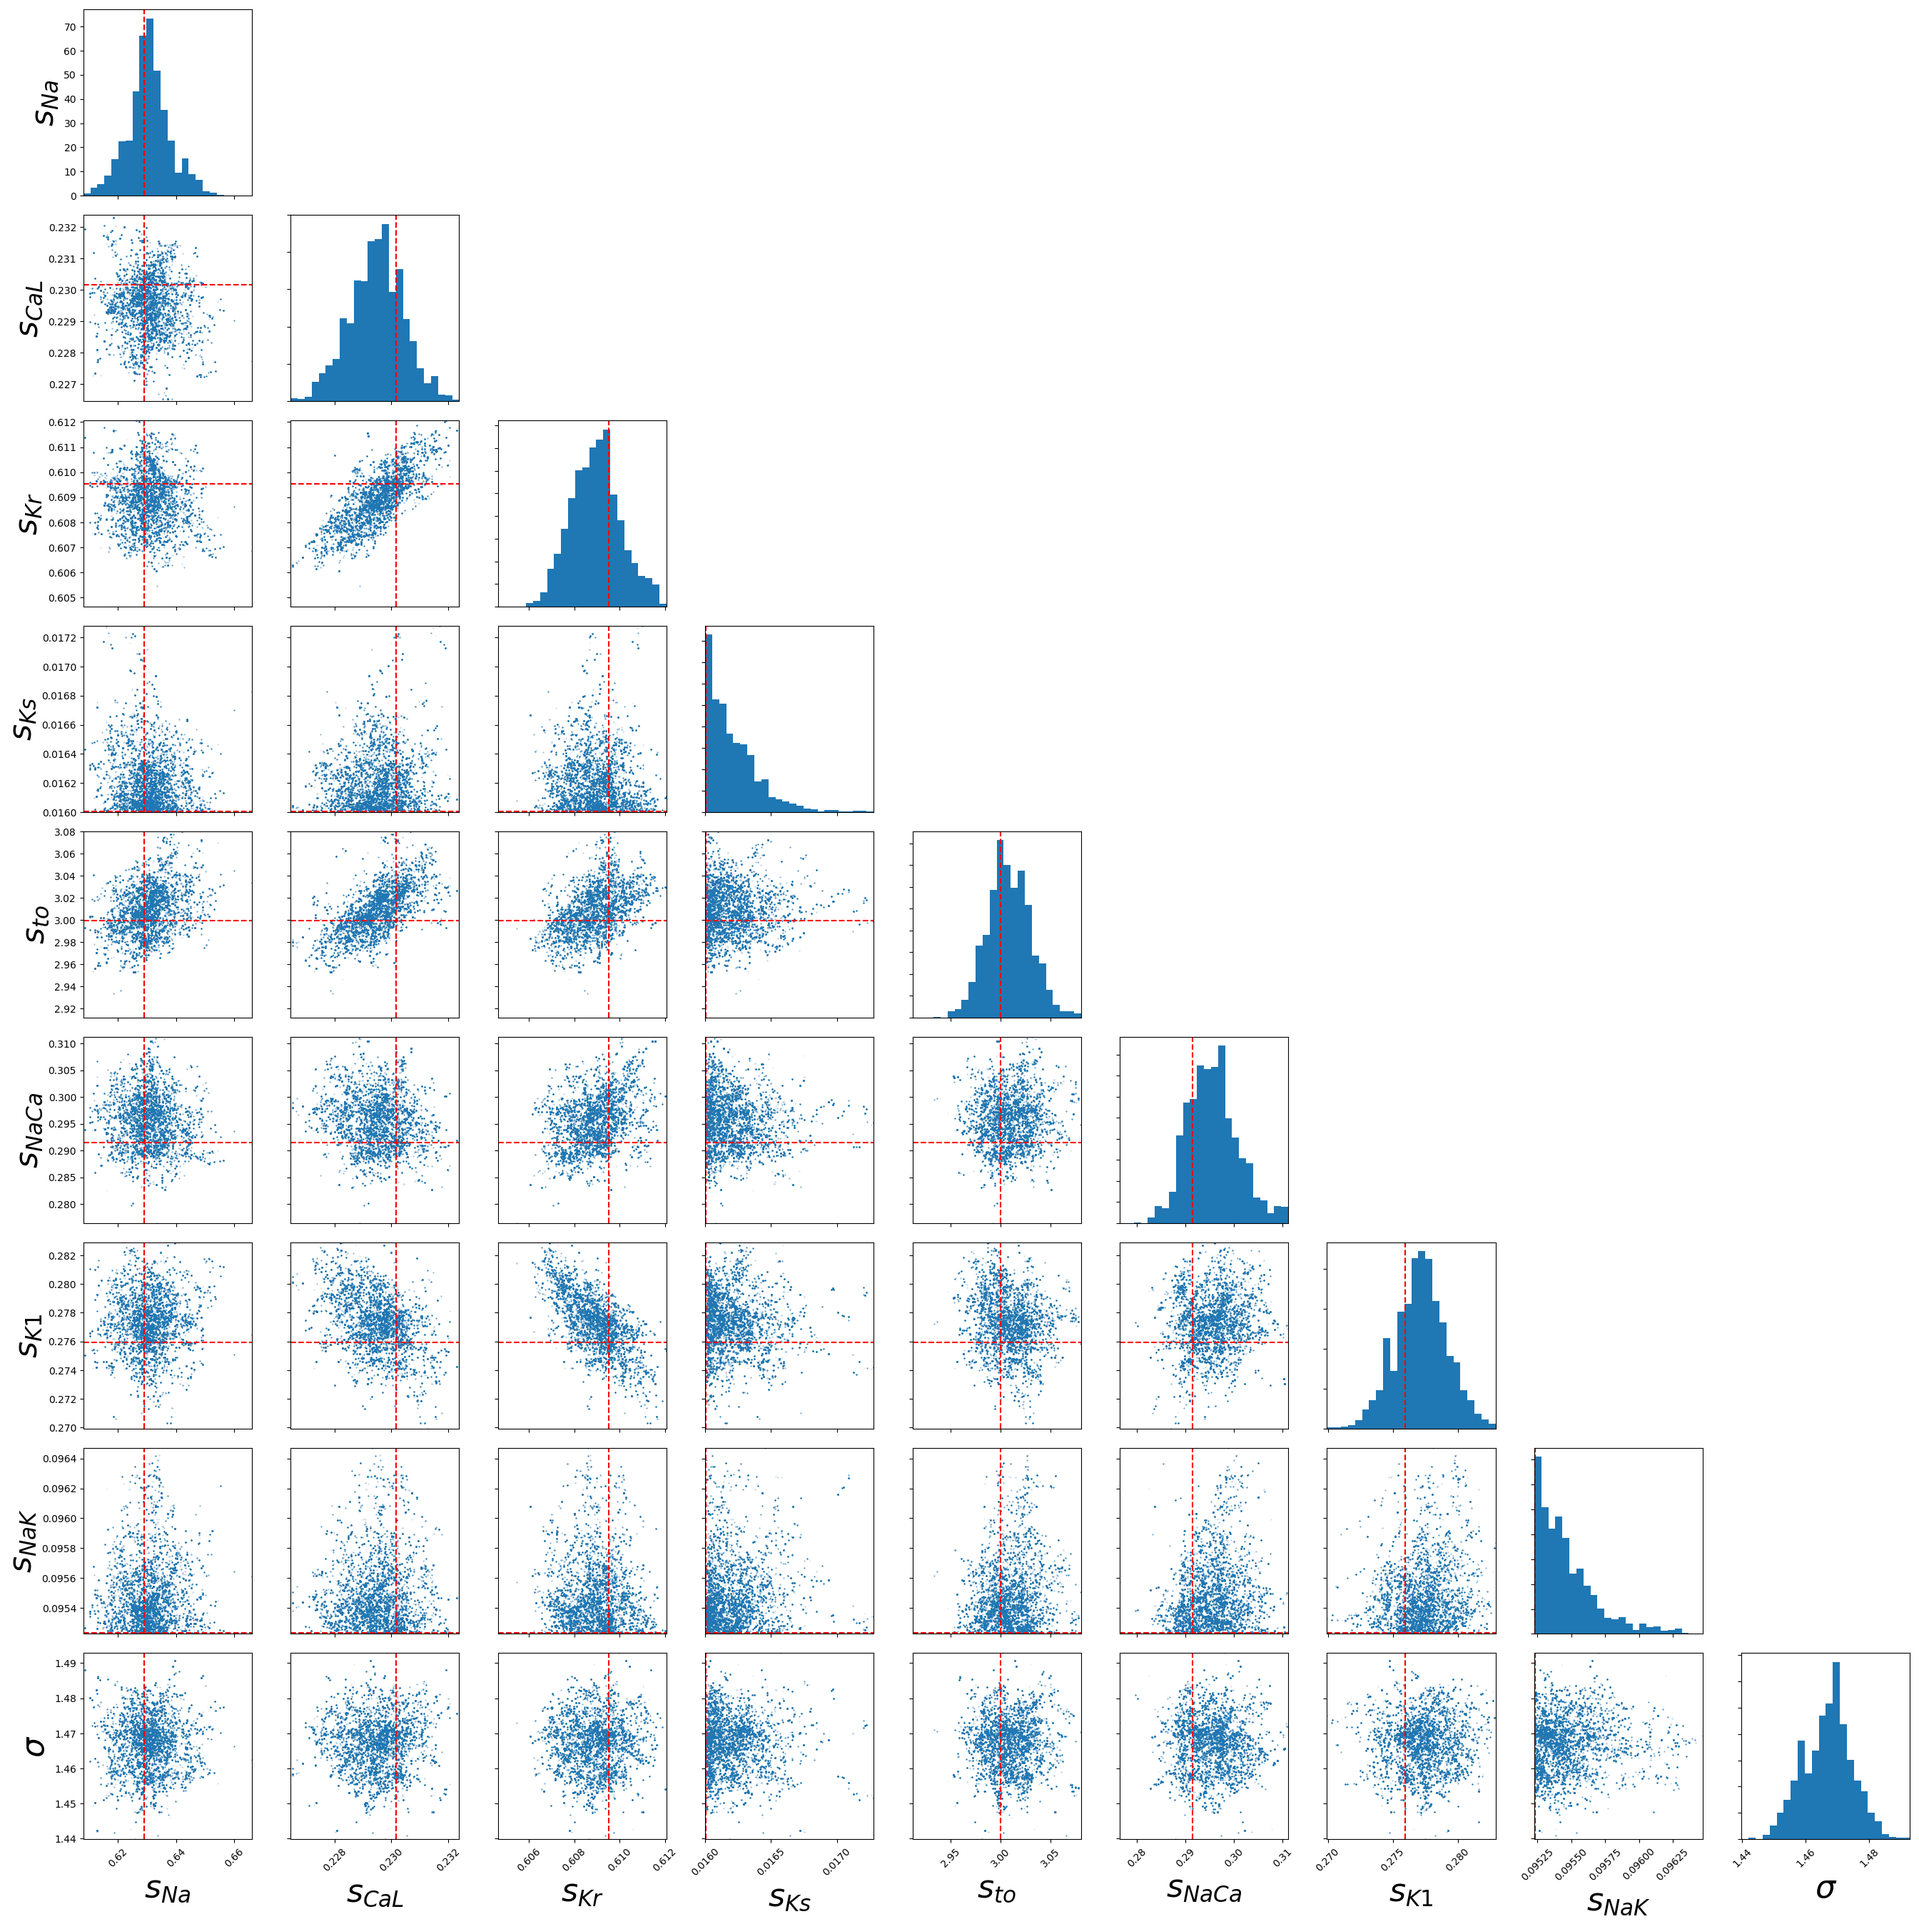
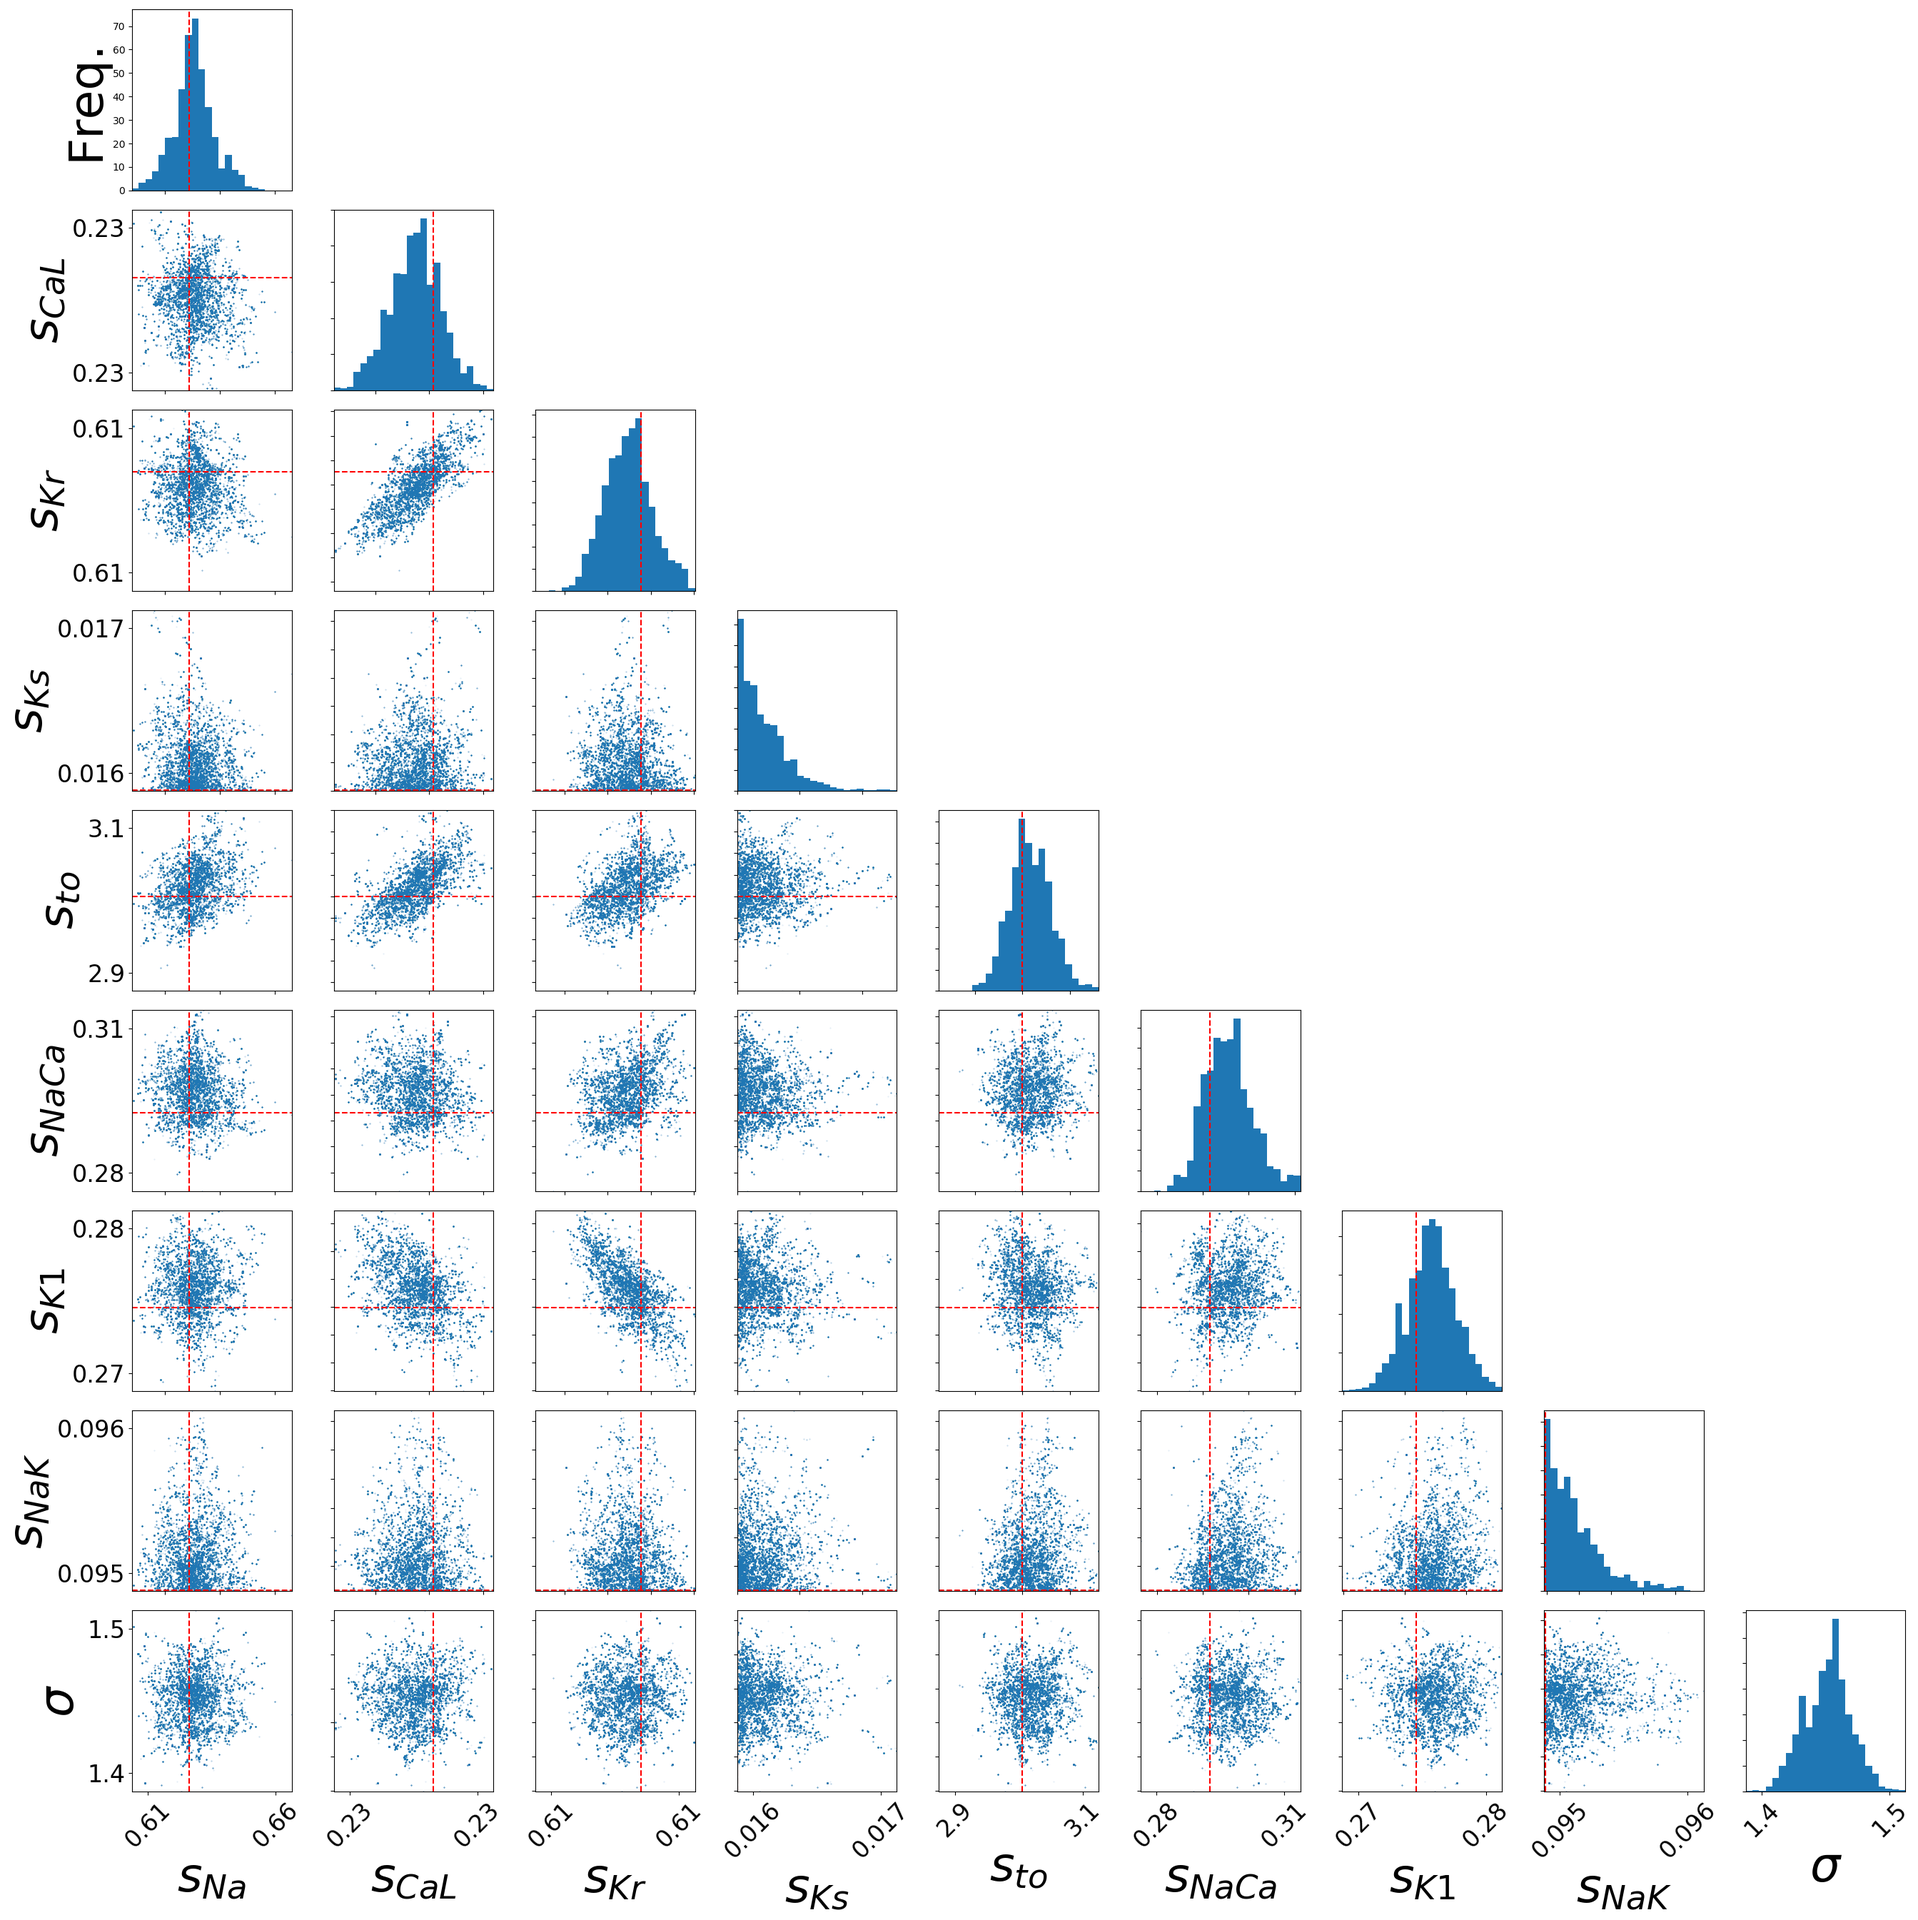
Change fontsize

diff --git a/action-potential-models/posterior.py b/action-potential-models/posterior.py
@@ -116,8 +116,24 @@ for i in range(len(axes)):
                     axes[i, j].axhline(renormalised_x0[i],
                         ls='--', c='r')
 for i in range(len(axes)):
-    axes[i, 0].set_ylabel(parameter_names[i], fontsize=32)
-    axes[-1, i].set_xlabel(parameter_names[i], fontsize=32)
+    if i == 0:
+        axes[i, 0].set_ylabel('Freq.', fontsize=48)
+    else:
+        ylim = axes[i, 0].get_ylim()
+        y_range = ylim[1] - ylim[0]
+        yticks = [ylim[0] + y_range * 0.1, ylim[1] - y_range * 0.1]
+        axes[i, 0].set_yticks(yticks)
+        yticklabels = ['%.2g' % y for y in yticks]
+        axes[i, 0].set_yticklabels(yticklabels, fontsize=24)
+        axes[i, 0].set_ylabel(parameter_names[i], fontsize=48)
+
+    xlim = axes[-1, i].get_xlim()
+    x_range = xlim[1] - xlim[0]
+    xticks = [xlim[0] + x_range * 0.1, xlim[1] - x_range * 0.1]
+    axes[-1, i].set_xticks(xticks)
+    xticklabels = ['%.2g' % x for x in xticks]
+    axes[-1, i].set_xticklabels(xticklabels, fontsize=24)
+    axes[-1, i].set_xlabel(parameter_names[i], fontsize=48)
 plt.tight_layout()
 plt.savefig('%s/%s-pairwise.png' % (savedir, saveas), bbox_inches='tight')
 plt.close('all')
@@ -172,9 +188,11 @@ else:
     for predicted_values in prediction[1:]:
         axes.plot(times, predicted_values, c=model_colour[0], alpha=0.2,
                 ls='--')
+if which_predict == 'hergblock':
+    axes.legend(loc=4, fontsize=14)
 axes.legend()
-axes.set_ylabel('Voltage (mV)')
-axes.set_xlabel('Time (ms)')
+axes.set_ylabel('Voltage (mV)', fontsize=18)
+axes.set_xlabel('Time (ms)', fontsize=18)
 plt.subplots_adjust(hspace=0)
 plt.savefig('%s/%s-pp.png' % (savedir, saveas), bbox_inches='tight')
 plt.close()
